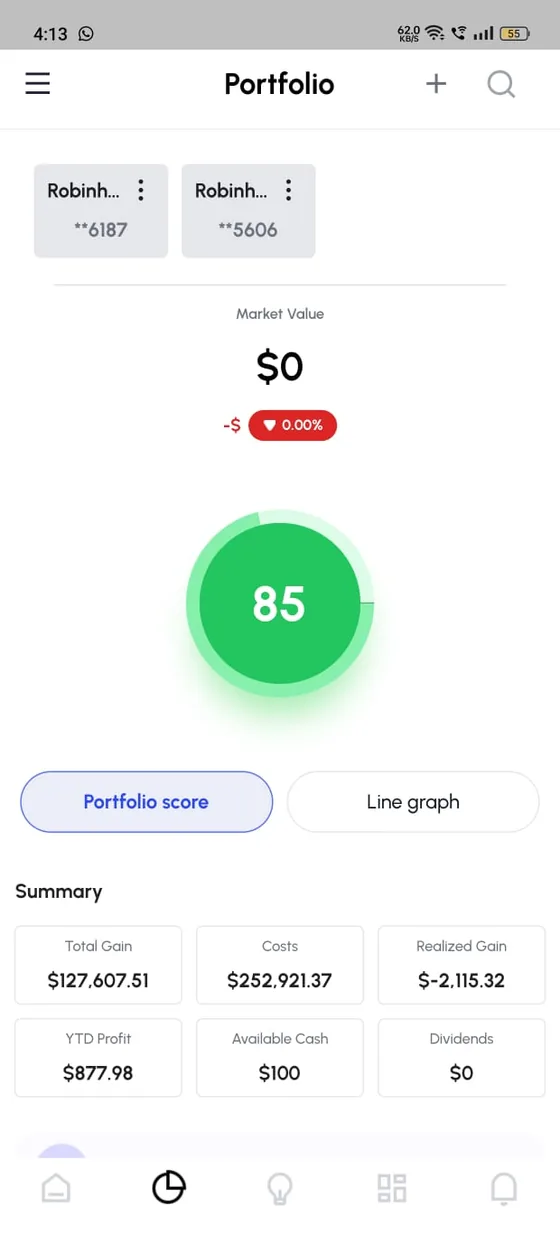
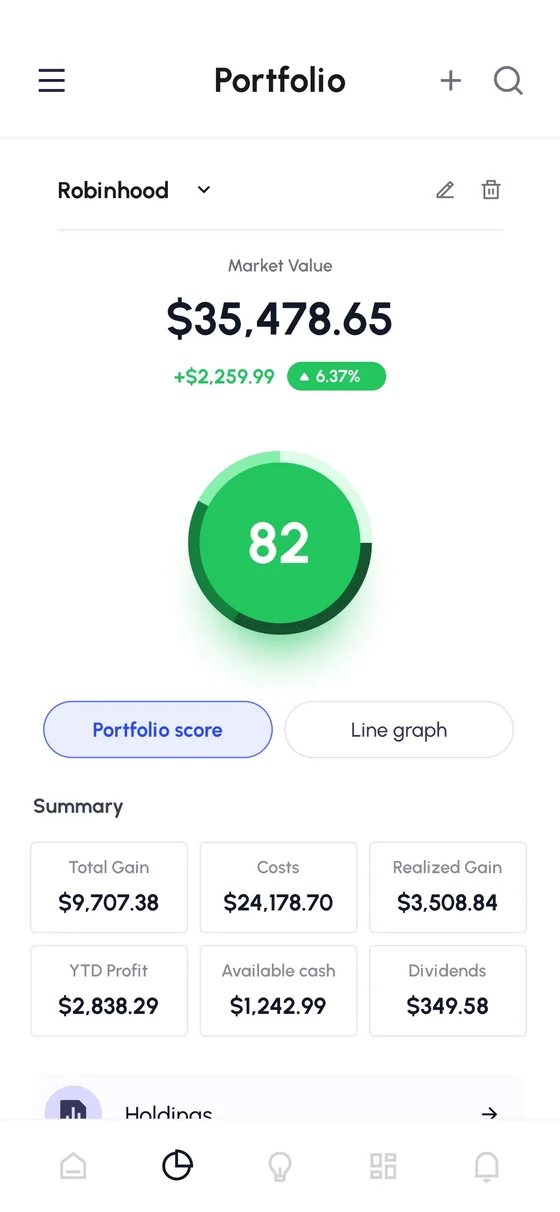
Replace Finsco portfolio screenshot
Claude-Session: https://claude.ai/code/session_01GqNnVfjQfedtuv97H3vE9z

diff --git a/assets/data.js b/assets/data.js
@@ -279,7 +279,7 @@ window.PORTFOLIO = {
       color: "var(--area-messenger)",
       summary: "Finsco (first called Rumo) lets investors follow stocks, crypto and ETFs in one place, with a score and report for each holding, curated picks and a community feed. I was the app's main developer, writing most of its screens and integrations.",
       stack: ["Flutter", "Provider", "Plaid", "Firebase", "RevenueCat", "fl_chart"],
-      gallery: { title: "More screens", images: ["start", "portfolio-score", "ideas-stocks", "ideas-crypto", "stock-holdings", "ticker-details", "resources"].map(n => `assets/img/finsco/${n}.webp`) },
+      gallery: { title: "More screens", images: ["start", "portfolio-graph", "ideas-stocks", "ideas-crypto", "stock-holdings", "ticker-details", "resources"].map(n => `assets/img/finsco/${n}.webp`) },
       features: [
         {
           id: "fin-portfolio",
@@ -292,8 +292,8 @@ window.PORTFOLIO = {
             "Portfolio valuation, holdings and allocation, calculated in the background",
             "Performance charts that redraw for each time range"
           ],
-          shots: ["assets/img/finsco/portfolio-graph.webp", "assets/img/finsco/crypto-holdings.webp"],
-          shotAlts: ["Portfolio value with a performance line graph","Crypto and ETF holdings with asset allocation"]
+          shots: ["assets/img/finsco/portfolio-score.webp", "assets/img/finsco/crypto-holdings.webp"],
+          shotAlts: ["Robinhood portfolio worth $35,478.65 with a portfolio score of 82","Crypto and ETF holdings with asset allocation"]
         },
         {
           id: "fin-research",
